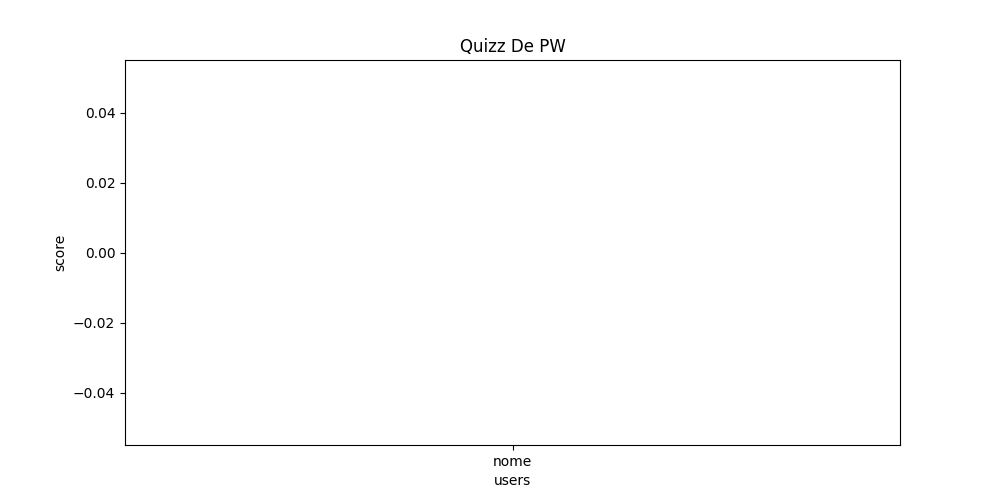
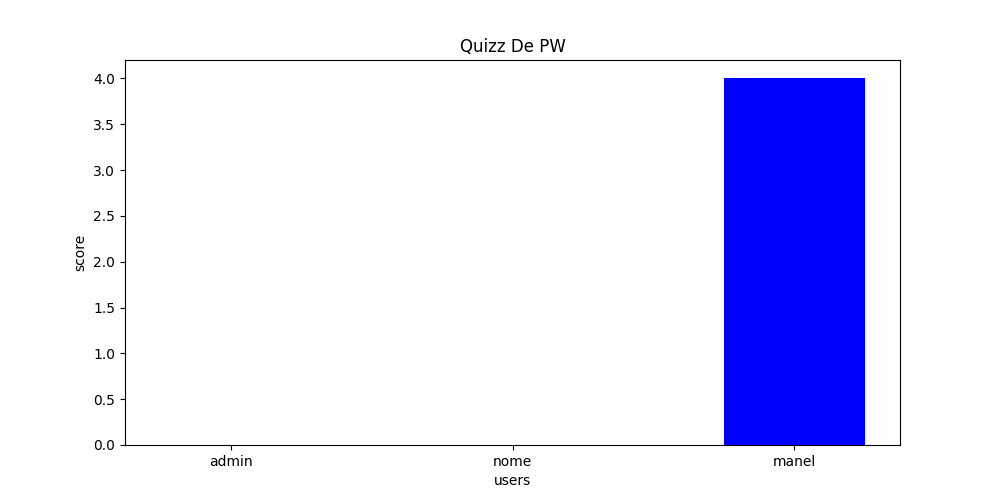
sdfv
dsv

diff --git a/portfolio/templates/portfolio/quizz.html b/portfolio/templates/portfolio/quizz.html
@@ -7,24 +7,24 @@
 {% block content %}
 
     <h1 style="color: white">Quizz section!</h1>
-    <div style="padding-left: 500px ;display: block; background:#aba6a6 ;height: 700px;       border-radius: 10px;        margin: 20px;        border-bottom-color: #b22121;        border-bottom-style: double;      box-shadow: rgba(129, 29, 29, 0.8) 5px 5px, rgb(77, 19, 19) 10px 10px;padding-top: 250px;">
+    <div style="padding-left: 150px; padding-top: 50px ;display: block; background:#aba6a6 ;height: 900px;       border-radius: 10px;        margin: 20px;        border-bottom-color: #b22121;        border-bottom-style: double;      box-shadow: rgba(129, 29, 29, 0.8) 5px 5px, rgb(77, 19, 19) 10px 10px;">
 
 
 
         {% load static %}
-        <img class="image" src="{% static 'portfolio/images/graf.PNG' %}">
+        <img class="image" style="margin-bottom: 20px;" src="{% static 'portfolio/images/graf.PNG' %}">
 
 
         <h2>{{request.user}}</h2>
 
 
-        <form method="post" action=".">
+        <form method="post" action="." style="">
             {% csrf_token %}
 
             {{ form.as_p }}
 
 
-            <button class="button is-success">Submeter</button>
+            <button class="button is-success" style="margin-top: 2%">Submeter</button>
 
         </form>
     </div>

diff --git a/portfolio/templates/portfolio/layout.html b/portfolio/templates/portfolio/layout.html
@@ -86,17 +86,15 @@
 
             {% if not request.user.is_authenticated %}
                 <a class="navbar-item" style="left:180%" href={% url 'portfolio:login' %}><strong>login</strong></a>
+            {% endif %}
+
+            {% if not request.user.is_authenticated %}
                 <a class="navbar-item" style="left:180%"
                    href={% url 'portfolio:register' %}><strong>register</strong></a>
             {% endif %}
 
             {% if request.user.is_authenticated %}
                 <a class="navbar-item" style="left:180%" href={% url 'portfolio:logout' %}><strong>logout</strong></a>
-            {% endif %}
-
-            {% if request.user.is_staff %}
-                <a class="navbar-item" style="left:180%" href={% url 'portfolio:addQuestion' %}><strong>Add
-                    Question</strong></a>
             {% endif %}
 
 

diff --git a/portfolio/static/portfolio/css/estilos.css b/portfolio/static/portfolio/css/estilos.css
@@ -4157,6 +4157,10 @@ fieldset[disabled] .select select:hover {
     font-size: 14px;
 }
 
+ul li{
+    visibility: hidden;
+}
+
 .label {
     color: #000000;
     display: block;

diff --git a/portfolio/templates/portfolio/addQuestion.html b/portfolio/templates/portfolio/addQuestion.html
@@ -15,6 +15,7 @@
     p {
         color: black;
     }
+
 </style>
 
 

diff --git a/portfolio/views.py b/portfolio/views.py
@@ -1,13 +1,17 @@
+import self
 from django.contrib.auth.decorators import login_required
 from django.http import HttpResponseRedirect
 from django.shortcuts import render, redirect
 from django.urls import reverse
 from django.contrib.auth import login, logout, authenticate
+from django.conf import settings
 
 from .forms import *
 from .models import *
 
 from .functions import desenha_grafico_resultados
+
+from django.contrib import messages
 
 
 # Create your views here.
@@ -80,20 +84,6 @@ def programacao_page_view(request):
     return render(request, 'portfolio/programacao.html', projetos)
 
 
-def addQuestion(request):
-    if request.user.is_staff:
-        form = PontuacaoQuizzForm()
-        if request.method == 'POST':
-            form = PontuacaoQuizzForm(request.POST)
-            if form.is_valid():
-                form.save()
-                return redirect('/')
-        context = {'form': form}
-        return render(request, 'portfolio/addQuestion.html', context)
-    else:
-        return redirect('portfolio:home')
-
-
 def registerPage(request):
     if request.user.is_authenticated:
         return redirect('portfolio:home')
@@ -131,20 +121,27 @@ def logoutPage(request):
     return redirect('/')
 
 
-@login_required
 def quizz_page_view(request):
-    desenha_grafico_resultados(pontuacaoquizz.objects.all())
-    form = PontuacaoQuizzForm(request.POST)
+    if not request.user.is_authenticated:
+        messages.error(request, 'Utilizador não efetuou login')
 
-    if request.method == 'POST':
-
-        if form.is_valid():
-            form.nome = request.user
-            form.save()
-            return HttpResponseRedirect(request.path_info)
-
+        return redirect('portfolio:home')
     else:
-        context = {
-            'form': form,
-        }
-        return render(request, 'portfolio/quizz.html', context)
+        form = PontuacaoQuizzForm(request.POST)
+        user = User.objects.get(username=request.user.get_username())
+
+        if request.method == 'POST':
+            if form.is_valid():
+                form = form.save(commit=False)
+
+                form.name = user.username
+
+                form.save()
+                desenha_grafico_resultados(pontuacaoquizz.objects.all())
+                return HttpResponseRedirect(request.path_info)
+
+        else:
+            context = {
+                'form': form,
+            }
+            return render(request, 'portfolio/quizz.html', context)

diff --git a/portfolio/urls.py b/portfolio/urls.py
@@ -35,11 +35,9 @@ urlpatterns = [
                   path('programacao/', views.programacao_page_view, name='programacao'),
                   path('virtualizacao/', views.virtualizacao_page_view, name='virtualizacao'),
                   path('reverse/', views.reverse_page_view, name='reverse'),
-                  path('addQuestion/', views.addQuestion, name='addQuestion'),
                   path('login/', views.login_page_view, name='login'),
                   path('logout/', views.logoutPage, name='logout'),
                   path('register/', views.registerPage, name='register'),
-                  path('addQuestion/', views.addQuestion, name='addQuestion'),
                   path('quizz/', views.quizz_page_view, name='quizz'),
               ] \
               + static(settings.STATIC_URL, document_root=settings.STATIC_ROOT)

diff --git a/portfolio/migrations/0001_initial.py b/portfolio/migrations/0001_initial.py
@@ -1,4 +1,4 @@
-# Generated by Django 4.0.4 on 2022-06-01 10:31
+# Generated by Django 4.0.4 on 2022-06-01 19:29
 
 from django.conf import settings
 from django.db import migrations, models
@@ -18,7 +18,7 @@ class Migration(migrations.Migration):
             name='pontuacaoquizz',
             fields=[
                 ('id', models.BigAutoField(auto_created=True, primary_key=True, serialize=False, verbose_name='ID')),
-                ('nome', models.CharField(max_length=50, null=True)),
+                ('name', models.CharField(max_length=50, null=True)),
                 ('Q1', models.CharField(max_length=200, null=True)),
                 ('Q2', models.CharField(max_length=200, null=True)),
                 ('Q3', models.CharField(max_length=200, null=True)),

diff --git a/portfolio/models.py b/portfolio/models.py
@@ -1,5 +1,6 @@
 from django.db import models
 from django.contrib.auth.models import User
+from self import self
 
 
 class Portfolio(models.Model):
@@ -39,17 +40,15 @@ class Projetos(models.Model):
 
 
 class pontuacaoquizz(models.Model):
-    name = models.CharField(max_length=50)
+    name = models.CharField(null=True, max_length=50)
 
     Q1 = models.CharField(null=True, max_length=200)
     Q2 = models.CharField(null=True, max_length=200)
     Q3 = models.CharField(null=True, max_length=200)
     Q4 = models.CharField(null=True, max_length=200)
 
-
     def __str__(self):
-        return f"{self.name}"
-
+        return self.name
 
     """
         Q1 -> Qual o animal que a google aluga para o seu uso (cabra)

diff --git a/portfolio/functions.py b/portfolio/functions.py
@@ -65,7 +65,7 @@ def desenha_grafico_resultados(objects):
 
     fig = plt.figure(figsize=(10, 5))
 
-    plt.bar(users, values, color='white', width=0.5)
+    plt.bar(users, values, color='blue', width=0.5)
 
     plt.xlabel("users")
     plt.ylabel("score")
